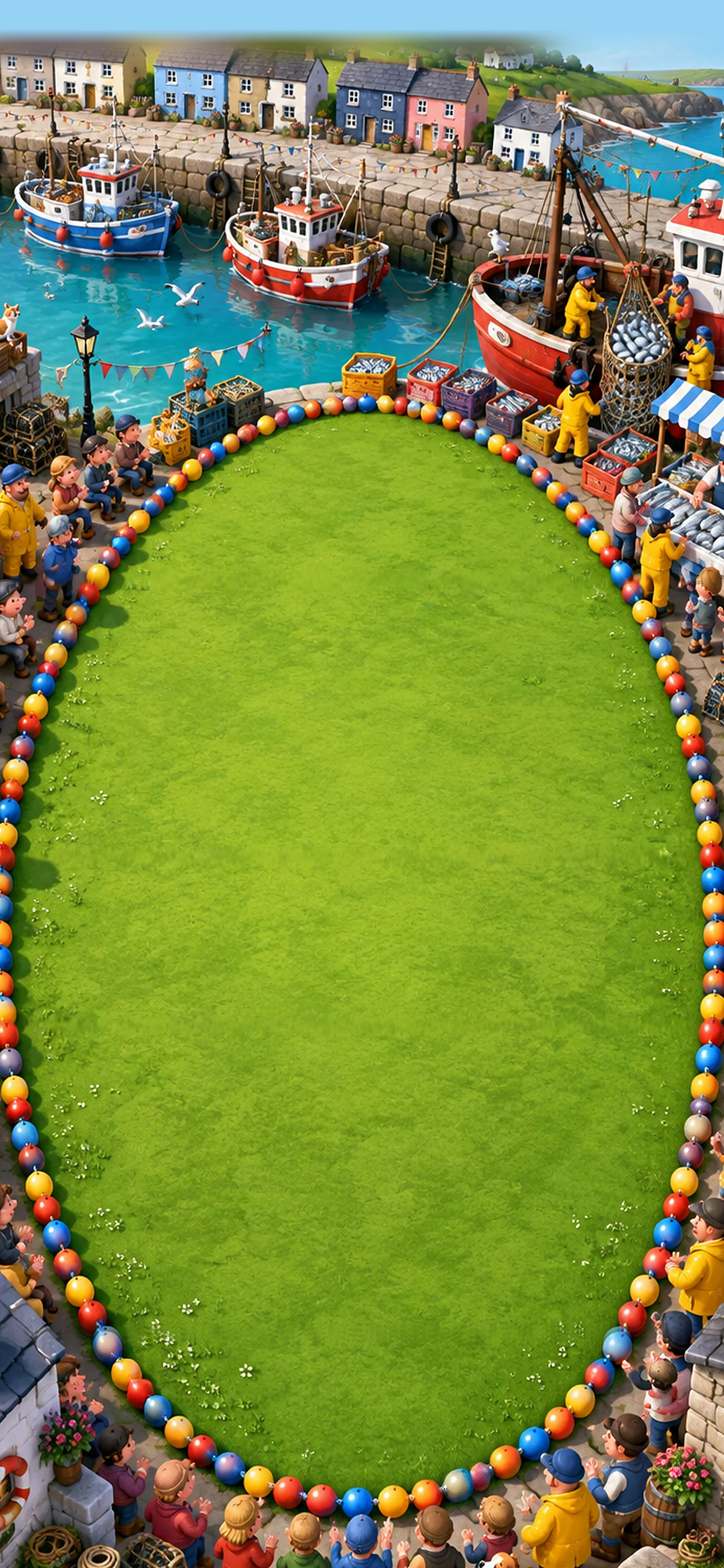
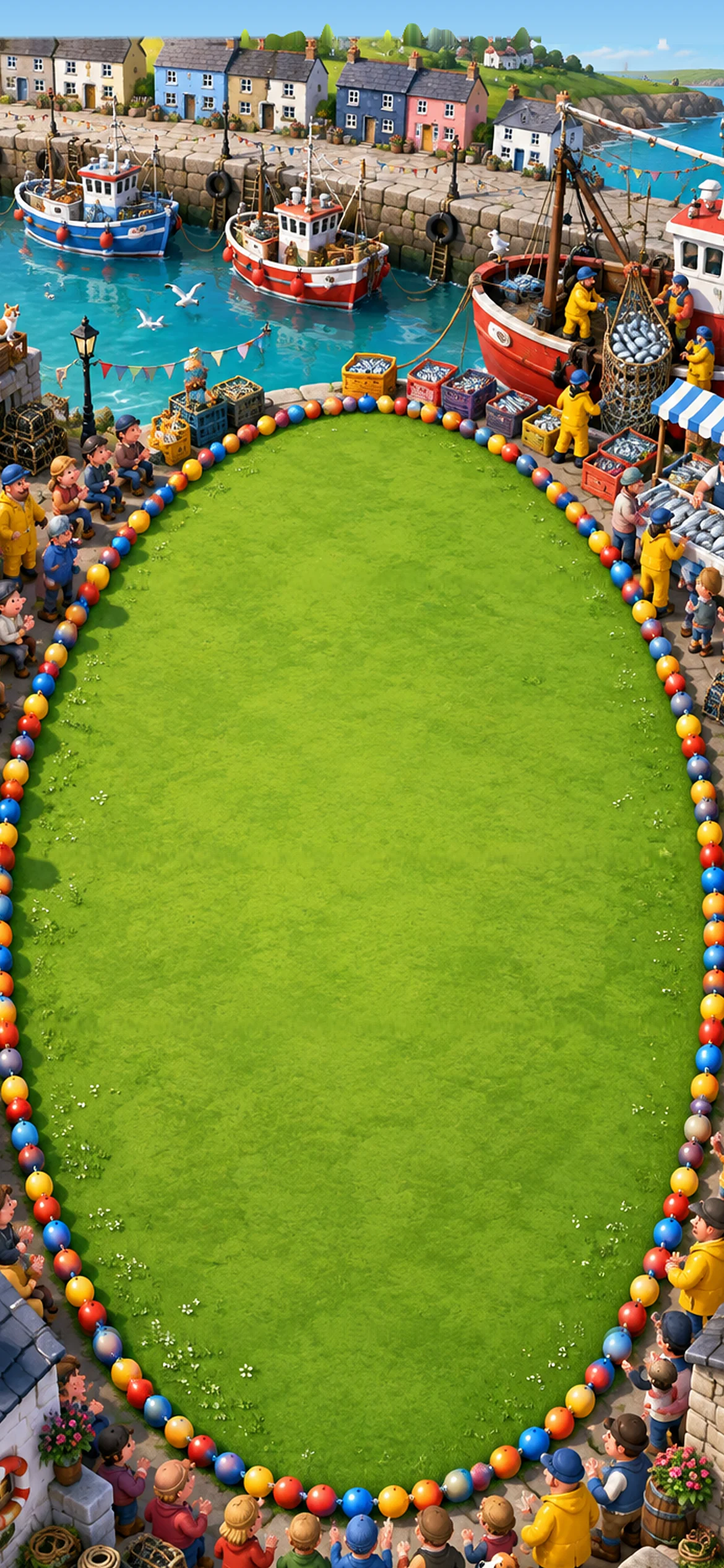
3.c Harbour: extend the painting upward as a skyline so the top of the screen isn't a smeared fade
Claude-Session: https://claude.ai/code/session_01EnXvJ6P6HcGRxjBSnYPdAU

Changed region(s): [[0.0, 0.0, 0.8, 0.0624]]

diff --git a/art/grounds/harbour/extend_top.py b/art/grounds/harbour/extend_top.py
@@ -1,0 +1,35 @@
+# 3.c Harbour top fix (Joe, Nov 2: "fix the top"): the painting stops ~42 source rows short of the screen top and cuts through the
+# cottage roofs and the hill. Extend it upward in source pixels before the fit, as a skyline: sky everywhere (the painted sky colour,
+# deepening upward); roof columns get their ridge back (top 8 rows mirrored — a pitched roof seen from above is near-symmetric about
+# its ridge); green hill columns rise into a gentle rolling crest. Writes raw/plate_ext.png (+E rows on top) for build.py.
+import numpy as np, cv2
+img=cv2.imread('raw/plate_388-191.png').astype(np.float32); H,W=img.shape[:2]; E=60
+B,G,R=[img[0,:,i] for i in range(3)]
+sky=((B>G+10)&(B>R+40)&(B>170))
+green=(G>R+15)&(G>B+5)&~sky
+rng=np.random.default_rng(7)
+skycol=img[2:10,700:860].reshape(-1,3).mean(0); deep=skycol*np.array([1.0,.9,.8])   # deeper blue higher up
+ext=np.zeros((E,W,3),np.float32)
+for i in range(E): t=i/(E-1); ext[i]=deep*(1-t)+skycol*t
+# sea-side columns: continue their own painted sky colour up, fading into the common sky
+own=np.repeat(cv2.GaussianBlur(img[:6].mean(0,keepdims=True),(0,0),sigmaX=40,sigmaY=0.1),E,0)   # blurred sideways: no cloud streaks; f=np.linspace(0,1,E)[:,None,None]; ext=np.where(sky[None,:,None],own*f+ext*(1-f),ext)
+# hill crest height per column (smooth), only where the top row is green
+cr=cv2.GaussianBlur(rng.random((1,W)).astype(np.float32),(0,0),18)[0]; cr=(cr-cr.min())/(cr.max()-cr.min()+1e-6)
+hgt=np.where(green,6+cr*16,0)
+hgt=cv2.GaussianBlur(hgt[None].astype(np.float32),(0,0),3)[0]*(green|(cv2.dilate(green.astype(np.uint8)[None],np.ones((1,9),np.uint8))[0]>0))
+for x in range(W):
+  h=hgt[x]
+  if h>0.5:
+    n=int(np.ceil(h)); col=img[0,x]
+    for j in range(n):
+      a=np.clip(h-j,0,1); y=E-1-j; shade=1+0.04*j
+      ext[y,x]=ext[y,x]*(1-a)+col*shade*a
+# roof ridges: mirror the top 8 rows above every non-sky, non-green column (roofs, chimneys, walls)
+M=8; roof=~sky&~green; mir=img[:M][::-1]
+fade=np.linspace(1,.0,M)[:,None]   # soften the top of the mirrored band
+for j in range(M):
+  y=E-1-j; a=(roof*np.clip(1.6-j/M*1.6,0,1))[:,None]
+  ext[y]=ext[y]*(1-a)+img[j][:,]*a if False else ext[y]*(1-a)+mir[M-1-j]*a
+out=np.concatenate([ext,img],0)
+cv2.imwrite('raw/plate_ext.png',out.clip(0,255).astype(np.uint8)); np.save('ext_rows.npy',np.array([E]))
+cv2.imwrite('raw/ext_check.png',cv2.resize(out[:130].clip(0,255).astype(np.uint8),(1728,260)))

diff --git a/art/grounds/harbour/build.py b/art/grounds/harbour/build.py
@@ -3,8 +3,8 @@
 # Usage: python3 build.py  (run in art/grounds/beach)
 import numpy as np, cv2
 W,H=1170,2532; cx,cy,rx,ry=.5*W,.6*H,.46*W,.335*H
-img=cv2.imread('raw/plate_388-191.png'); h0,w0=img.shape[:2]
-ex,ey,ew,eh=np.load('ell.npy')  # from find_ell (rays from the centre to the windbreak foot, robust fitEllipse)
+img=cv2.imread('raw/plate_ext.png'); h0,w0=img.shape[:2]   # extended upward by extend_top.py (Joe: fix the top)
+ex,ey,ew,eh=np.load('ell.npy'); ey+=int(np.load('ext_rows.npy')[0])  # from find_ell (rays from the centre to the windbreak foot, robust fitEllipse)
 print('sand ellipse',ex,ey,ew,eh,'ratio',round(eh/ew,3))
 s=2*rx/ew; L=max(0,int(round(2*ry/s-eh))); print('scale',round(s,4),'rows',L)
 img=img.astype(np.float32); F=24; w=np.linspace(0,1,F)[:,None,None]

diff --git a/art/ui/HANDOVER.md b/art/ui/HANDOVER.md
@@ -712,3 +712,4 @@ After that: sprint 7 app-store build on Joe's Mac (RevenueCat with store-confirm
 - 3.c Harbour (branch coastal-3c, `tc_harbour`, replaces 'pier'): 4 generations, all right first time (plate 388:191 ratio 1.56 → 11 rows, scale 1.688, within ~10 phone px; edge found with find_ell.py at blur 4 / threshold 45 — grass texture stops the rays early at the default). Sky above the painting now blends to the painted sky colour (top-right corner median) instead of a fixed blue.
 - Yellow-on-navy lettering on magenta: purple spill in the navy 3D edge → cut.py pulls purple pixels' red channel back toward green after cutting.
 
+- 3.c top fix (Joe, Nov 2: 'fix the top'): the painting ended 42 source rows short of the screen top, through the roofs, and the old sky-gradient fill smeared. extend_top.py (art/grounds/harbour) extends the SOURCE upward as a skyline before the fit: sky everywhere, roof ridges back (top 8 rows mirrored over roof columns), a rolling hill crest over green columns, sea-side sky blurred sideways (no cloud streaks). build.py reads raw/plate_ext.png and shifts the ellipse by ext_rows. Reuse this whenever a plate stops short at the top.
